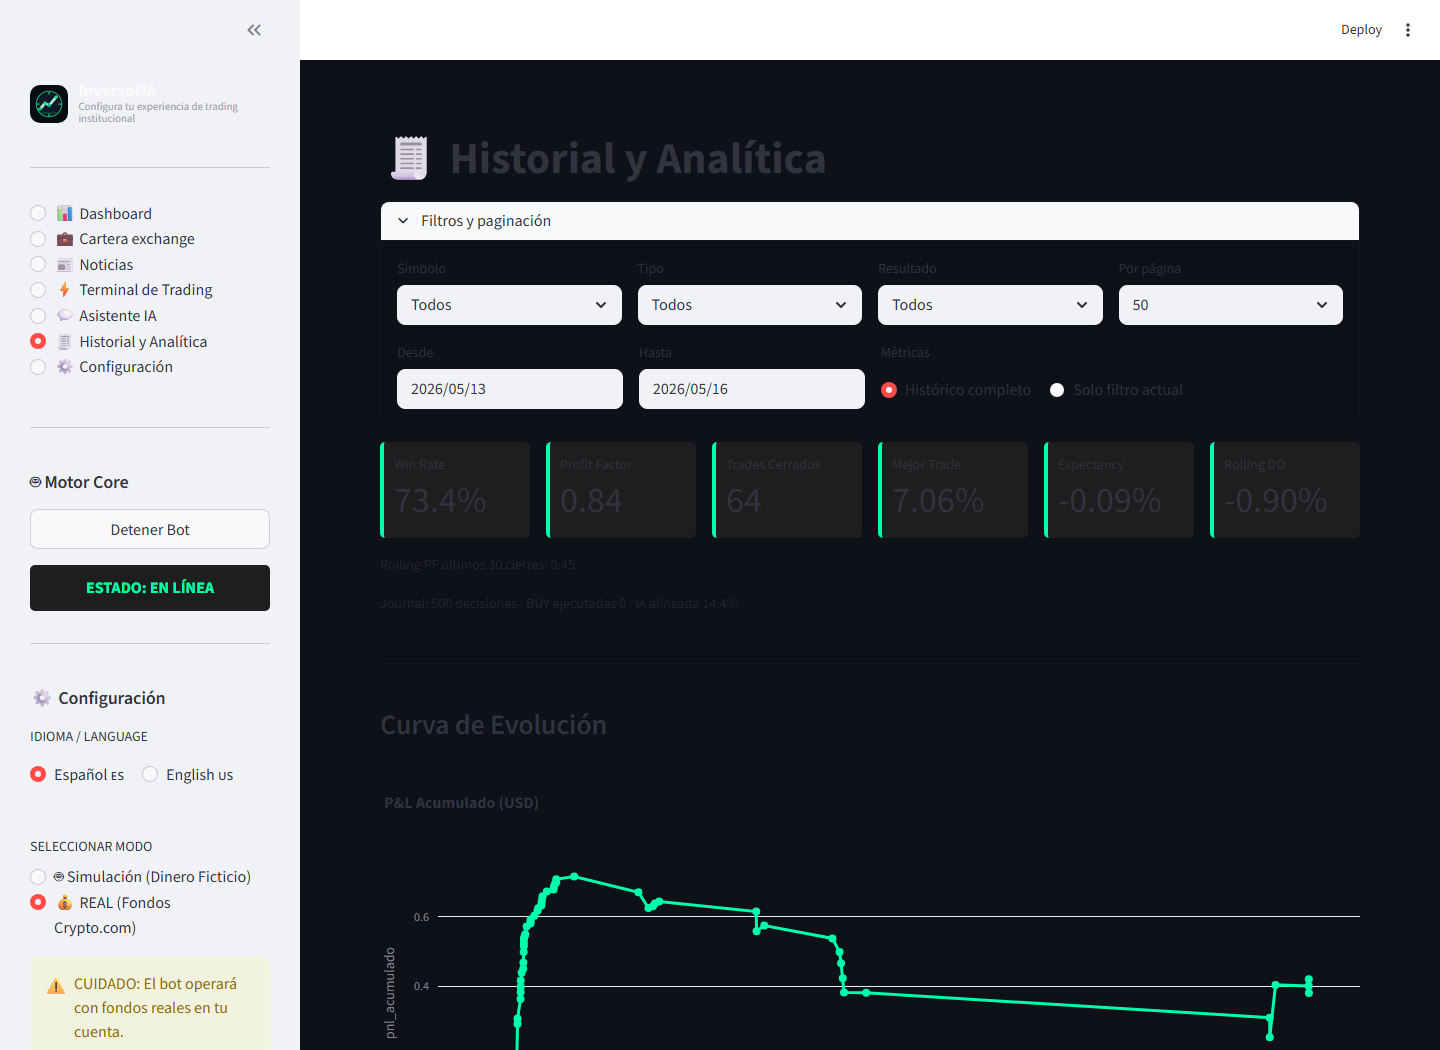
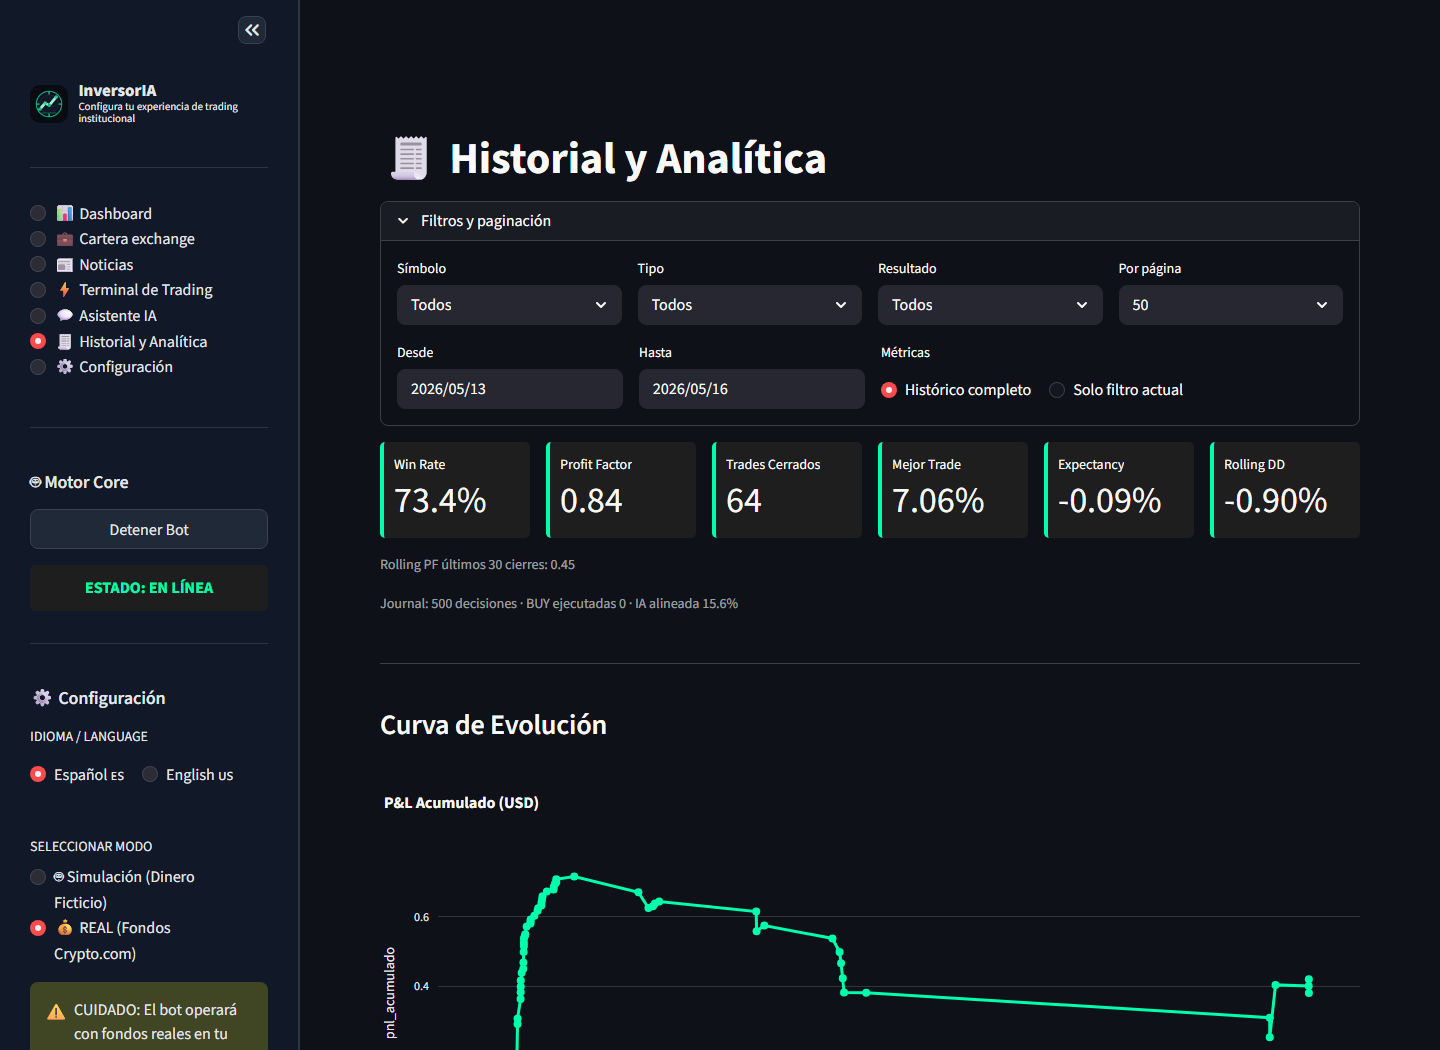
docs: refresh screenshots in dark mode
Apply a consistent dark sidebar/theme treatment and replace the README demo assets with cleaner dark-mode captures.

diff --git a/app.py b/app.py
@@ -36,9 +36,49 @@ st.set_page_config(
 # Estilos CSS para Bloomberg style
 st.markdown("""
 <style>
-    .stApp { background-color: #0E1117; }
-    .stMetric { background-color: #1E1E1E; padding: 10px; border-radius: 5px; border-left: 4px solid #00FFAA; }
-    div[data-testid="stSidebar"] { background-color: #161A22; border-right: 1px solid #333; }
+    .stApp,
+    [data-testid="stAppViewContainer"],
+    [data-testid="stMain"],
+    [data-testid="stHeader"] {
+        background-color: #0E1117;
+    }
+    [data-testid="stHeader"],
+    [data-testid="stToolbar"] {
+        visibility: hidden;
+        height: 0;
+    }
+    .stMetric {
+        background-color: #1E1E1E;
+        padding: 10px;
+        border-radius: 5px;
+        border-left: 4px solid #00FFAA;
+    }
+    section[data-testid="stSidebar"],
+    section[data-testid="stSidebar"] > div,
+    div[data-testid="stSidebar"] {
+        background-color: #111827;
+        border-right: 1px solid #30363D;
+    }
+    section[data-testid="stSidebar"] *,
+    div[data-testid="stSidebar"] * {
+        color: #E5E7EB;
+    }
+    section[data-testid="stSidebar"] label,
+    section[data-testid="stSidebar"] p,
+    section[data-testid="stSidebar"] span {
+        color: #E5E7EB !important;
+    }
+    section[data-testid="stSidebar"] hr {
+        border-color: #30363D;
+    }
+    section[data-testid="stSidebar"] [role="radiogroup"] label {
+        background: transparent;
+    }
+    section[data-testid="stSidebar"] button {
+        background-color: #1F2937;
+        color: #F9FAFB;
+        border: 1px solid #374151;
+    }
     .iversoria-brand {
         display: flex;
         align-items: center;
